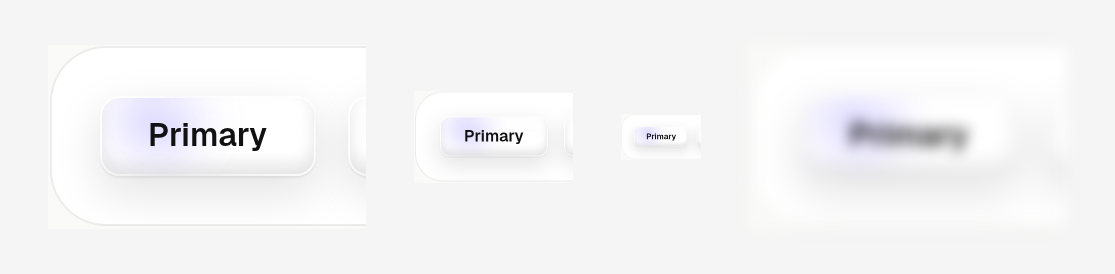
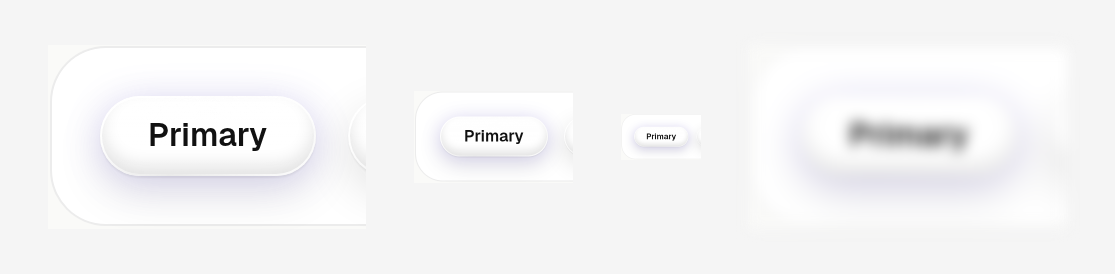
feat(button): lens silhouette + neutral Primary with discreet violet halo
Silhouette + Primary treatment only (owner-approved, compatible option):
- Silhouette → premium lens/capsule: radius = half the height (rounded-[17/20/24px])
  so the ends are perfectly tensed, a continuous organic contour (not a literal
  9999px pill). Compact padding kept; width still content-driven.
- Primary is no longer violet-filled: the button family stops emitting
  data-glass-intent='primary', so the frozen violet caustic is off. ALL buttons
  now share the same neutral glass (Button, IconButton, LinkButton).
- Primary signature = a very discreet pastel-violet OUTER bloom (ambient light,
  not a fill, not a hard ring, not a CSS border) via a box-shadow on the primary
  variant. Respects the frozen invariant (violet never a ring/fill) — no
  GlassSurface, layer, Fresnel, reflection, refraction, shadow-layer, animation,
  global-light or glass.css change; no other role touched.

Claude-Session: https://claude.ai/code/session_01JSKxADquWPscGGWu93W5g6

diff --git a/src/components/ui/button.tsx b/src/components/ui/button.tsx
@@ -23,26 +23,27 @@ export const buttonVariants = cva(
   ],
   {
     variants: {
+      // All variants share the SAME neutral glass. Primary is distinguished only
+      // by a light SIGNATURE — a very discreet pastel-violet outer bloom (ambient
+      // light energy, not a fill, not a hard ring, not a CSS border). The violet
+      // never paints the body. Neutral variants carry no bloom.
       variant: {
-        primary: 'text-text',
+        primary: 'text-text shadow-[0_2px_18px_rgba(139,124,255,0.22)]',
         secondary: 'text-text',
         ghost: 'text-accent-accessible',
         outline: 'text-text',
         destructive: 'text-text-on-accent',
       },
-      // The single Micro Surface geometry: a COMPACT, dense action piece
-      // (Apple / Linear / Stripe). There is NO target aspect ratio — the width
-      // is dictated only by the content. The horizontal padding is restrained
-      // (close to the vertical rhythm) so the glass hugs the label instead of
-      // extending into empty "wings"; combined with a solid height, the visual
-      // weight concentrates in the centre (dense, stable, never stretched).
-      // Corners rounded at ~⅓ of the height — a machined rectangle, never a
-      // pill. A short "OK" and a long "Start your journey" stay the same family
-      // (same height, padding, radius). Material/optics are unchanged.
+      // The single Micro Surface geometry: a premium lens / capsule silhouette.
+      // Radius = half the height so the ends are perfectly tensed (no perceptible
+      // angle, a continuous organic contour), yet driven by real values — never a
+      // literal 9999px pill. Compact horizontal padding keeps the width dictated
+      // by content. The silhouette alone reads as a piece of glass to press.
+      // Material/optics are unchanged.
       size: {
-        sm: 'h-[34px] px-4 text-body-sm rounded-[8px]',
-        md: 'h-[40px] px-5 text-body rounded-[10px]',
-        lg: 'h-[48px] px-6 text-body-lg rounded-[12px]',
+        sm: 'h-[34px] px-4 text-body-sm rounded-[17px]',
+        md: 'h-[40px] px-5 text-body rounded-[20px]',
+        lg: 'h-[48px] px-6 text-body-lg rounded-[24px]',
       },
     },
     defaultVariants: { variant: 'primary', size: 'md' },
@@ -94,7 +95,6 @@ export const Button = forwardRef<HTMLButtonElement, ButtonProps>(
         ref={ref}
         className={cn(buttonVariants({ variant, size }), className)}
         data-glass-variant={variant}
-        data-glass-intent={variant === 'primary' ? 'primary' : undefined}
         disabled={disabled ?? loading}
         aria-busy={loading || undefined}
         {...props}

diff --git a/src/components/ui/link-button.tsx b/src/components/ui/link-button.tsx
@@ -36,7 +36,6 @@ export const LinkButton = forwardRef<HTMLAnchorElement, LinkButtonProps>(
         ref={ref}
         className={cn(buttonVariants({ variant, size }), className)}
         data-glass-variant={variant}
-        data-glass-intent={variant === 'primary' ? 'primary' : undefined}
         {...props}
       >
         <GlassSurface />

diff --git a/src/components/ui/icon-button.tsx b/src/components/ui/icon-button.tsx
@@ -49,7 +49,6 @@ export const IconButton = forwardRef<HTMLButtonElement, IconButtonProps>(
           className,
         )}
         data-glass-variant={variant}
-        data-glass-intent={variant === 'primary' ? 'primary' : undefined}
         {...props}
       >
         <GlassSurface />
